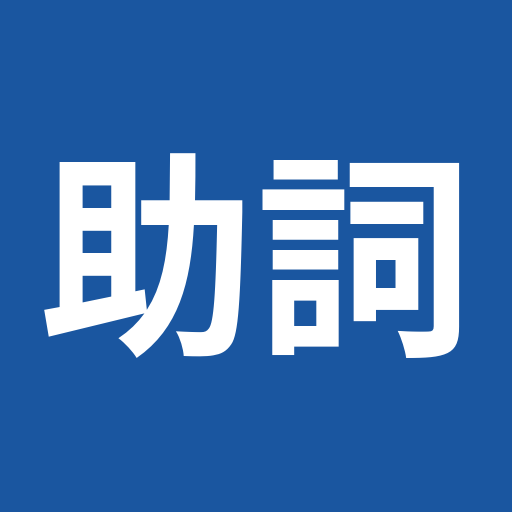
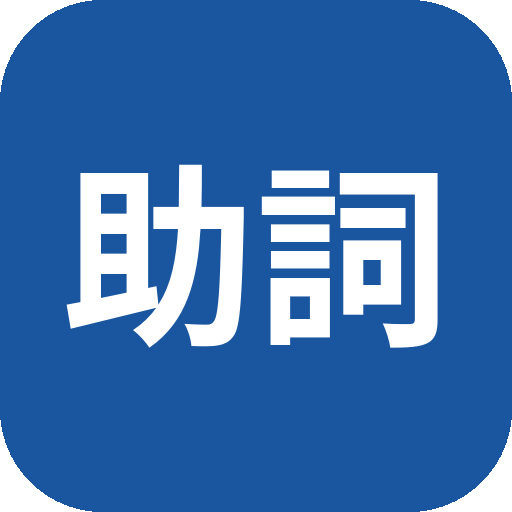
Add files via upload

diff --git a/sw.js b/sw.js
@@ -1,52 +1,50 @@
-// ============================================================
-// サービスワーカー（オフラインでもアプリを開けるようにする仕組み）
-// ============================================================
+// キャッシュ（保存領域）の名前とバージョン
+// バージョンを変えると古いキャッシュが自動で削除されます
+const CACHE_NAME = 'joshi-training-v1';
 
-// キャッシュ（端末に保存するデータ）の名前。
-// アプリを更新したときは、この末尾の数字を増やすと、
-// 古いキャッシュが自動で削除されて新しい内容に更新されます。
-const CACHE_NAME = "joshi-training-cache-v1";
-
-// 保存しておくファイルの一覧
+// キャッシュしておくファイルの一覧
 const FILES_TO_CACHE = [
-  "./",
-  "./index.html",
-  "./manifest.json",
-  "./icons/icon-192.png",
-  "./icons/icon-512.png",
-  "./icons/icon-maskable-512.png",
-  "./icons/apple-touch-icon.png"
+  './',
+  './index.html',
+  './manifest.json',
+  './icon-192.png',
+  './icon-512.png'
 ];
 
-// ① インストール時：必要なファイルをまとめて保存する
-self.addEventListener("install", (event) => {
+// ===== インストール時：ファイルをキャッシュに保存 =====
+self.addEventListener('install', (event) => {
   event.waitUntil(
     caches.open(CACHE_NAME).then((cache) => {
       return cache.addAll(FILES_TO_CACHE);
     })
   );
+  // 新しいSWをすぐに有効にする
   self.skipWaiting();
 });
 
-// ② 有効化時：古いバージョンのキャッシュを削除する
-self.addEventListener("activate", (event) => {
+// ===== アクティベート時：古いキャッシュを削除 =====
+self.addEventListener('activate', (event) => {
   event.waitUntil(
-    caches.keys().then((keys) => {
+    caches.keys().then((keyList) => {
       return Promise.all(
-        keys
-          .filter((key) => key !== CACHE_NAME)
-          .map((key) => caches.delete(key))
+        keyList.map((key) => {
+          if (key !== CACHE_NAME) {
+            return caches.delete(key);
+          }
+        })
       );
     })
   );
   self.clients.claim();
 });
 
-// ③ ファイル取得時：保存済みがあればそれを使い、なければネットから取得する
-self.addEventListener("fetch", (event) => {
+// ===== ネットワーク要求の処理 =====
+// 戦略：キャッシュ優先（オフラインでも動く）
+self.addEventListener('fetch', (event) => {
   event.respondWith(
-    caches.match(event.request).then((cached) => {
-      return cached || fetch(event.request);
+    caches.match(event.request).then((response) => {
+      // キャッシュにあればそれを返す、なければネットから取得
+      return response || fetch(event.request);
     })
   );
 });

diff --git a/index.html b/index.html
@@ -4,6 +4,21 @@
 <meta charset="UTF-8">
 <meta name="viewport" content="width=device-width, initial-scale=1.0">
 <title>助詞トレーニング</title>
+
+<!-- ===== PWA設定 ===== -->
+<!-- manifest.jsonを読み込む（アプリ名・アイコン・色の設定書） -->
+<link rel="manifest" href="manifest.json">
+
+<!-- iOSのステータスバーの色をアプリのアクセントカラーに -->
+<meta name="theme-color" content="#1A56A0">
+
+<!-- iPad/iPhoneのホーム画面追加対応 -->
+<meta name="apple-mobile-web-app-capable" content="yes">
+<meta name="apple-mobile-web-app-status-bar-style" content="default">
+<meta name="apple-mobile-web-app-title" content="助詞">
+
+<!-- iOSホーム画面用アイコン -->
+<link rel="apple-touch-icon" href="icon-192.png">
 <style>
 *,*::before,*::after{box-sizing:border-box;margin:0;padding:0;}
 :root{
@@ -818,5 +833,19 @@ function shuffleArr(a){
 function h(s){return String(s).replace(/&/g,'&amp;').replace(/</g,'&lt;').replace(/>/g,'&gt;');}
 function numLabel(n){return['①','②','③','④','⑤'][n-1]||String(n);}
 </script>
+
+<!-- ===== Service Worker登録 ===== -->
+<!-- Service Worker：オフラインでも動くようにする「裏方」プログラムを登録 -->
+<script>
+  if ('serviceWorker' in navigator) {
+    // ブラウザがService Workerに対応しているか確認してから登録
+    window.addEventListener('load', () => {
+      navigator.serviceWorker.register('./sw.js')
+        .then(() => console.log('Service Worker: 登録完了'))
+        .catch((err) => console.log('Service Worker: 登録失敗', err));
+    });
+  }
+</script>
+
 </body>
 </html>